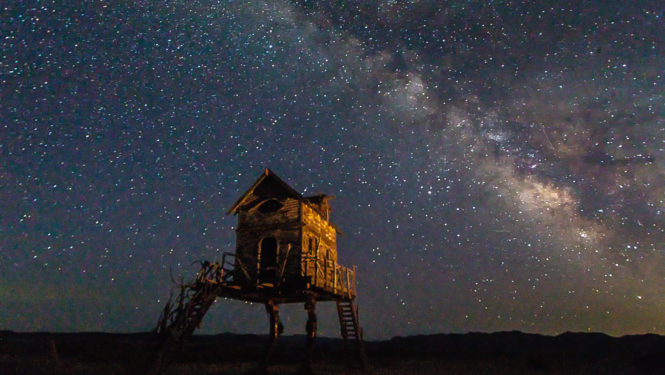
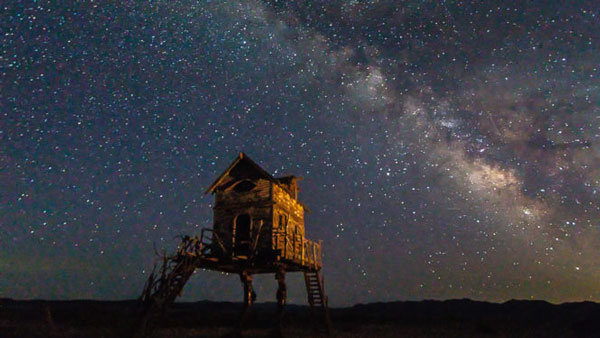
optimized pictures

diff --git a/css/styles.min.css b/css/styles.min.css
@@ -1,1 +1,1 @@
-/*! made by Volha Molash */@import url(https://fonts.googleapis.com/css?family=Courgette|Kaushan+Script&display=swap);*{margin:0;padding:0;box-sizing:border-box;font-size:10px}.container{font-family:Verdana,sans-serif;margin:0 auto;max-width:960px;line-height:1.55}.container a,.container li,.container p{font-size:1.4rem}footer,header{background-color:#369}p{color:#333}footer p{color:#fff}h1,h2,h3{color:#2c5573;font-family:Courgette,sans-serif}h1{font-size:2.4rem}h2{font-size:2.2rem}h3{font-size:1.8rem}img{max-width:100%;height:auto}a{text-decoration:none}aside a{color:#625d53}aside a:hover{color:#333}aside a:active{color:#8b0000}main{padding:0 2%}@media (min-width:650px){main{padding-right:0;display:grid;grid-template-columns:62.5% 37.5%}main aside{background-color:#ededed;background:linear-gradient(180deg,#ededed 0,#fff 70%);padding-left:20px}main aside h2,main aside h3{color:#3d769f}main section{padding-right:2%}}.btn-difference,.btn-involved,.btn-participate{display:inline-block;padding:6px 12px;text-align:center;white-space:nowrap;vertical-align:middle;cursor:pointer;border:none;border-radius:4px;font-family:Verdana,sans-serif;user-select:none;color:#fefffa}.btn-difference{background-color:#006400}.btn-involved{background-color:#8b0000}.btn-participate{background-color:#1a64a8}.video{position:relative;padding-bottom:56.25%;padding-top:25px;height:0;overflow:hidden}.video iframe{position:absolute;top:0;left:0;width:100%;height:100%}@media (min-width:0) and (max-width:499px){nav ul .logo{display:none}}nav ul li{list-style-type:none}nav ul li a{color:#fff}nav ul li a:hover{color:#2c5573}nav ul li a:active{color:#8b0000}nav ul li:hover{background-color:#cd3301}nav ul li:hover:first-of-type{background-color:transparent}nav ul li a{display:block;padding:12px 10px;text-transform:uppercase}@media (min-width:500px){nav ul{display:flex;justify-content:center}nav ul li:first-of-type{margin-right:auto}nav ul li a{display:grid;justify-content:center;align-items:center;width:100px;height:56px}nav ul li a.logo{padding:0}}header nav{height:0;overflow:hidden}@media (min-width:500px){header nav{height:100%;overflow:visible}}header input[type=checkbox]{position:absolute;top:-999em;left:-999em}header label{display:block;background:url(../images/hamburger-menu.png) no-repeat right center;text-indent:-999em;height:44px;cursor:pointer;-webkit-user-select:none;-moz-user-select:none;-ms-user-select:none;user-select:none;position:relative;top:2px;right:8px}@media (min-width:500px){header label{display:none}}header input[type=checkbox]:checked~nav{height:auto;overflow:hidden}
+@charset "UTF-8";/*! made by Volha Molash */@import url(https://fonts.googleapis.com/css?family=Courgette|Kaushan+Script&display=swap);*{margin:0;padding:0;box-sizing:border-box;font-size:10px}.container{font-family:Verdana,sans-serif;margin:0 auto;max-width:960px;line-height:1.55}.container a,.container li,.container p{font-size:1.4rem}footer,header{background-color:#369}footer{text-align:center}p{color:#333}footer p{color:#fff;padding:10px}li{list-style-type:none}section li::before{content:'✓';padding:10px}h1,h2,h3{color:#2c5573;font-family:Courgette,sans-serif}h1{font-size:2.4rem}h2{font-size:2.2rem}h3{font-size:1.8rem}img{max-width:100%;height:auto}a{text-decoration:none}aside a{color:#625d53}aside a:hover{color:#333}aside a:active{color:#8b0000}main{padding:0 2%}@media (min-width:650px){main{padding-right:0;display:grid;grid-template-columns:62.5% 37.5%}main aside{background-color:#ededed;background:linear-gradient(180deg,#ededed 0,#fff 70%);padding-left:20px}main aside h2,main aside h3{color:#3d769f}main section{padding-right:2%}}.btn-difference,.btn-involved,.btn-participate{display:inline-block;padding:6px 12px;text-align:center;white-space:nowrap;vertical-align:middle;cursor:pointer;border:none;border-radius:4px;font-family:Verdana,sans-serif;user-select:none;color:#fefffa}.btn-difference{background-color:#006400}.btn-involved{background-color:#8b0000}.btn-participate{background-color:#1a64a8}.video{position:relative;padding-bottom:56.25%;padding-top:25px;height:0;overflow:hidden}.video iframe{position:absolute;top:0;left:0;width:100%;height:100%}@media (min-width:0) and (max-width:630px){nav ul .logo{display:none}}nav ul li a{color:#fff}nav ul li a:hover{color:#2c5573}nav ul li a:active{color:#8b0000}nav ul li:hover{background-color:#cd3301}nav ul li:hover:first-of-type{background-color:transparent}nav ul li a{display:block;padding:12px 10px;text-transform:uppercase}@media (min-width:500px){nav ul{display:flex;justify-content:center}nav ul li:first-of-type{margin-right:auto}nav ul li a{display:grid;justify-content:center;align-items:center;width:100px;height:56px}nav ul li a.logo{padding:0}}header nav{height:0;overflow:hidden}@media (min-width:500px){header nav{height:100%;overflow:visible}}header input[type=checkbox]{position:absolute;top:-999em;left:-999em}header input[type=checkbox]:checked~nav{height:auto;overflow:hidden}header label{display:block;background:url(../images/hamburger-menu.png) no-repeat right center;text-indent:-999em;height:44px;cursor:pointer;-webkit-user-select:none;-moz-user-select:none;-ms-user-select:none;user-select:none;position:relative;top:2px;right:8px}@media (min-width:500px){header label{display:none}}

diff --git a/index.html b/index.html
@@ -26,20 +26,20 @@
     <main>
         <section>
             <h1>What is Fly Ranch?</h1>
-        <p>Fly Ranch is a roughly 3,800-acre parcel of land located 21 miles north of Gerlach, Nevada. The property has 640 acres of wetlands, dozens of natural spring-water pools ranging in temperature from hot to cold, sagebrush-grasslands, and a small area of playa that opens onto the Hualapai Flat. The land’s most prominent feature is the stunning Fly Geyser, a unique and iconic geothermal geyser that constantly releases water reaching five feet in the air, depositing minerals and multi-colored algae on the terraces surrounding it. The Fly Ranch property is truly an oasis in the desert.</p>
-    
-        <p>The geyser itself is not entirely naturally occurring. It’s the result of some drilling done in 1964 in search of sources of geothermal energy. The well was likely not capped properly, which created the geyser. And why is it called “Fly” Ranch? Is there a bug problem? No. It’s believed the name in reference to flight. Accordingly to local Gerlachian lore, in the 1930s there was a biplane training facility on the property.</p>
-        <img src="images/fly-geyser.jpg" alt="fly-geyser">
-    
-        <h2>What will Burning Man do with Fly Ranch?</h2>
-        <button class="btn-difference">Make a difference</button>
-        <p>What we do know is this: Fly Ranch opens the door to new possibilities, new cultural experiments, and art and innovation projects on a scale never before envisioned. We also know that community participation will be essential. Fly Ranch will be a collaborative endeavor requiring a vast array of skills, ideas, and contributions.</p>
-        <p>Securing a year-round location for decades to come at Fly Ranch is the next step in the grand experiment that is Burning Man.</p>
-        <p>Check out the video below and read on for more information, including how you can get involved.</p>
-       
-        <div class="video">
-            <iframe width="560" height="315" src="https://www.youtube.com/embed/JdWIN6QwahA" frameborder="0" allow="accelerometer; autoplay; encrypted-media; gyroscope; picture-in-picture" allowfullscreen></iframe>
-        </div>
+            <p>Fly Ranch is a roughly 3,800-acre parcel of land located 21 miles north of Gerlach, Nevada. The property has 640 acres of wetlands, dozens of natural spring-water pools ranging in temperature from hot to cold, sagebrush-grasslands, and a small area of playa that opens onto the Hualapai Flat. The land’s most prominent feature is the stunning Fly Geyser, a unique and iconic geothermal geyser that constantly releases water reaching five feet in the air, depositing minerals and multi-colored algae on the terraces surrounding it. The Fly Ranch property is truly an oasis in the desert.</p>
+        
+            <p>The geyser itself is not entirely naturally occurring. It’s the result of some drilling done in 1964 in search of sources of geothermal energy. The well was likely not capped properly, which created the geyser. And why is it called “Fly” Ranch? Is there a bug problem? No. It’s believed the name in reference to flight. Accordingly to local Gerlachian lore, in the 1930s there was a biplane training facility on the property.</p>
+            <img src="images/fly-geyser.jpg" alt="fly-geyser">
+        
+            <h2>What will Burning Man do with Fly Ranch?</h2>
+            <button class="btn-difference">Make a difference</button>
+            <p>What we do know is this: Fly Ranch opens the door to new possibilities, new cultural experiments, and art and innovation projects on a scale never before envisioned. We also know that community participation will be essential. Fly Ranch will be a collaborative endeavor requiring a vast array of skills, ideas, and contributions.</p>
+            <p>Securing a year-round location for decades to come at Fly Ranch is the next step in the grand experiment that is Burning Man.</p>
+            <p>Check out the video below and read on for more information, including how you can get involved.</p>
+        
+            <div class="video">
+                <iframe width="560" height="315" src="https://www.youtube.com/embed/JdWIN6QwahA" frameborder="0" allow="accelerometer; autoplay; encrypted-media; gyroscope; picture-in-picture" allowfullscreen></iframe>
+            </div>
         </section>
     
         <aside>

diff --git a/pages/purpose.html b/pages/purpose.html
@@ -10,6 +10,8 @@
 <body>
     <div class="container">
         <header>
+            <input type="checkbox" id="toggle">
+            <label for="toggle">Menu</label>
             <nav>
                 <ul>
                     <li><a href="../index.html" class="logo"><img src="../images/logo.png" alt="Fly Ranch"></a></li>
@@ -25,7 +27,7 @@
             <section>
                 <h1>The Future of Fly</h1>
             <p>Zac Cirivello, Operations Manager for Fly Ranch, squints through the harsh summer sun and gazes out at the playa and says, “The challenge for the place is not what we want to do with it, it’s what can we help others do with it. … We could take a couple of years and master plan an amazing place to do some really cool stuff, but that’s not the Burner way.”</p>
-            <img src="../images/geyser.jpg" alt="Geyser Fly Ranch">
+            <img src="../images/night_yaga.jpg" alt="Geyser Fly Ranch">
         
             <p>“Fly is a middle space, between the temporary autonomous zone of Black Rock City and what people have referred to as the default world. It’s a place that can exist between the two of those, embracing the freedom of one and some of the pragmatic constraints of the other, and take the best of both to improve each of them,” Zac says.</p>
         

diff --git a/css/styles.css b/css/styles.css
@@ -1,3 +1,4 @@
+@charset "UTF-8";
 /*! made by Volha Molash */
 @import url("https://fonts.googleapis.com/css?family=Courgette|Kaushan+Script&display=swap");
 * {
@@ -22,12 +23,26 @@ header, footer {
   background-color: #369;
 }
 
+footer {
+  text-align: center;
+}
+
 p {
   color: #333;
 }
 
 footer p {
   color: #fff;
+  padding: 10px;
+}
+
+li {
+  list-style-type: none;
+}
+
+section li::before {
+  content: '✓';
+  padding: 10px;
 }
 
 h1, h2, h3 {
@@ -138,14 +153,10 @@ main {
 }
 
 /*        end CODE for video           */
-@media (min-width: 0) and (max-width: 499px) {
+@media (min-width: 0) and (max-width: 630px) {
   nav ul .logo {
     display: none;
   }
-}
-
-nav ul li {
-  list-style-type: none;
 }
 
 nav ul li a {
@@ -212,6 +223,11 @@ header input[type=checkbox] {
   left: -999em;
 }
 
+header input[type=checkbox]:checked ~ nav {
+  height: auto;
+  overflow: hidden;
+}
+
 header label {
   display: block;
   background: url(../images/hamburger-menu.png) no-repeat right center;
@@ -234,9 +250,4 @@ header label {
   header label {
     display: none;
   }
-}
-
-header input[type=checkbox]:checked ~ nav {
-  height: auto;
-  overflow: hidden;
 }

diff --git a/pages/art.html b/pages/art.html
@@ -10,6 +10,8 @@
 <body>
     <div class="container">
         <header>
+            <input type="checkbox" id="toggle">
+            <label for="toggle">Menu</label>
             <nav>
                 <ul>
                     <li><a href="../index.html" class="logo"><img src="../images/logo.png" alt="Fly Ranch"></a></li>
@@ -36,7 +38,6 @@
                 <li>Zachary Coffin, “Rockspinner”</li>
                 <li>Julian Voss-Andreae, “Quantum Meditation II”</li>
             </ul>
-            <img src="../images/halo.jpg" alt="Halo art">
             <img src="../images/Quantum_Meditation.jpg" alt="Quantum Meditation art">
             <p>The artworks will be fabricated in 2020 and installed in 2021. For those in the Burner, Google and local communities who are interested in participating, there will be opportunities to help with the fabrication and installation of some of these projects, including “Curious” by Mr. and Mrs. Ferguson, and “Go” by Hou de Sousa. Stay tuned for those engagement opportunities, as well as the celebration of the opening of Charleston East Plaza later in 2021.</p>
            </section>
